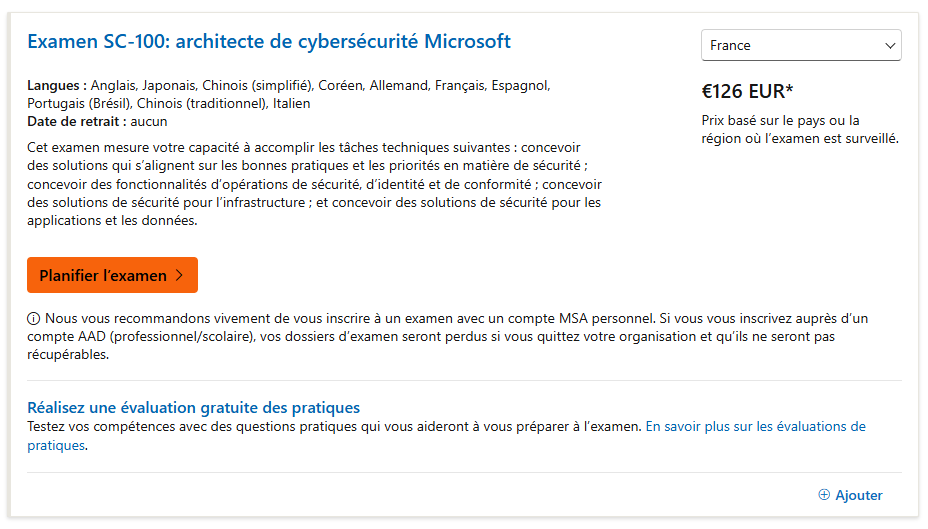
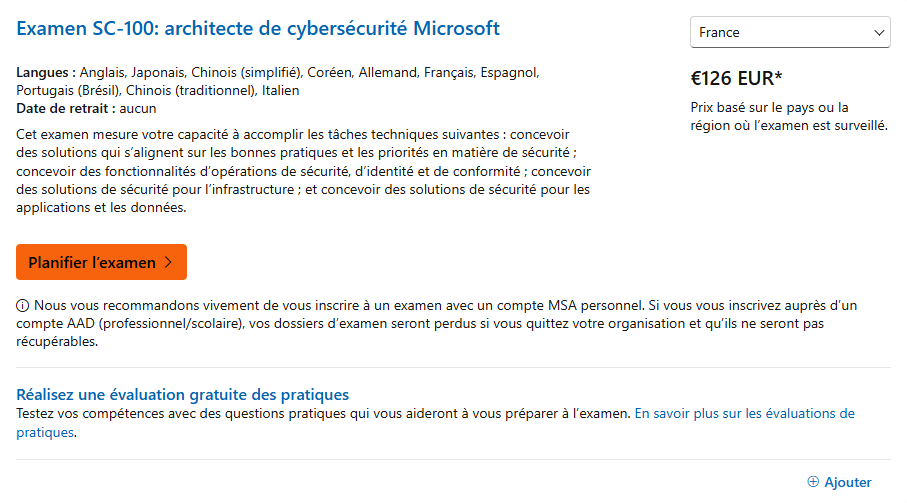
Correction des images

Changed region(s): [[0.0, 0.0298, 0.957, 0.9841], [0.7409, 0.0596, 0.9879, 0.2684], [0.8644, 0.9245, 0.9879, 0.9841]]

diff --git a/_posts/2026/2026-05-06-certifications-ms.md b/_posts/2026/2026-05-06-certifications-ms.md
@@ -37,9 +37,11 @@ Les certifications ne sont pas pensées pour valoriser les profils techniques à
 
 Elles ont une forte valeur pour les Entreprises de Services du Numériques (ESN), car elles permettent d'améliorer ou de maintenir leur partenariat auprès des éditeurs. Ce partenariat va permettre d'être mieux identifié et de remporter des appels d'offres directement via leur référencement. Un bon exemple est le [Partner Program de Microsoft](https://partner.microsoft.com/fr-fr/partnership/find-a-partner) qui est divisé en deux niveaux : Gold Partner et Silver Partner (en fonction notamment du nombre de certifiés dans l'entreprise).
 
-![logo collector de MS Gold Partner](https://upload.wikimedia.org/wikipedia/commons/b/b1/Logo_Partenaires_Or_Microsoft.jpg)
-
 C'est donc pour cette raison que les ESN financent et récompensent l'obtention de certifications.
+
+<p>
+  <img style="height: 8em;" src="https://upload.wikimedia.org/wikipedia/commons/b/b1/Logo_Partenaires_Or_Microsoft.jpg" alt="logo collector de ms partner gold">
+</p>
 
 ## Préparer et obtenir votre certification Microsoft
 